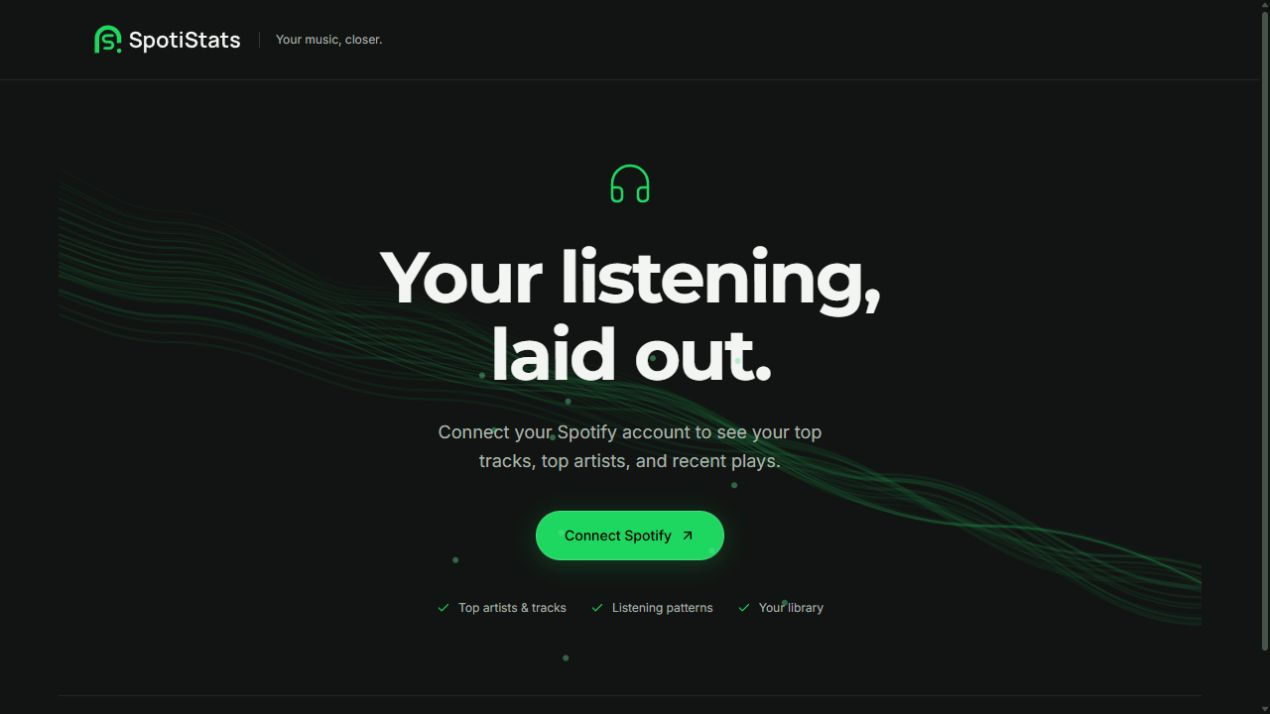
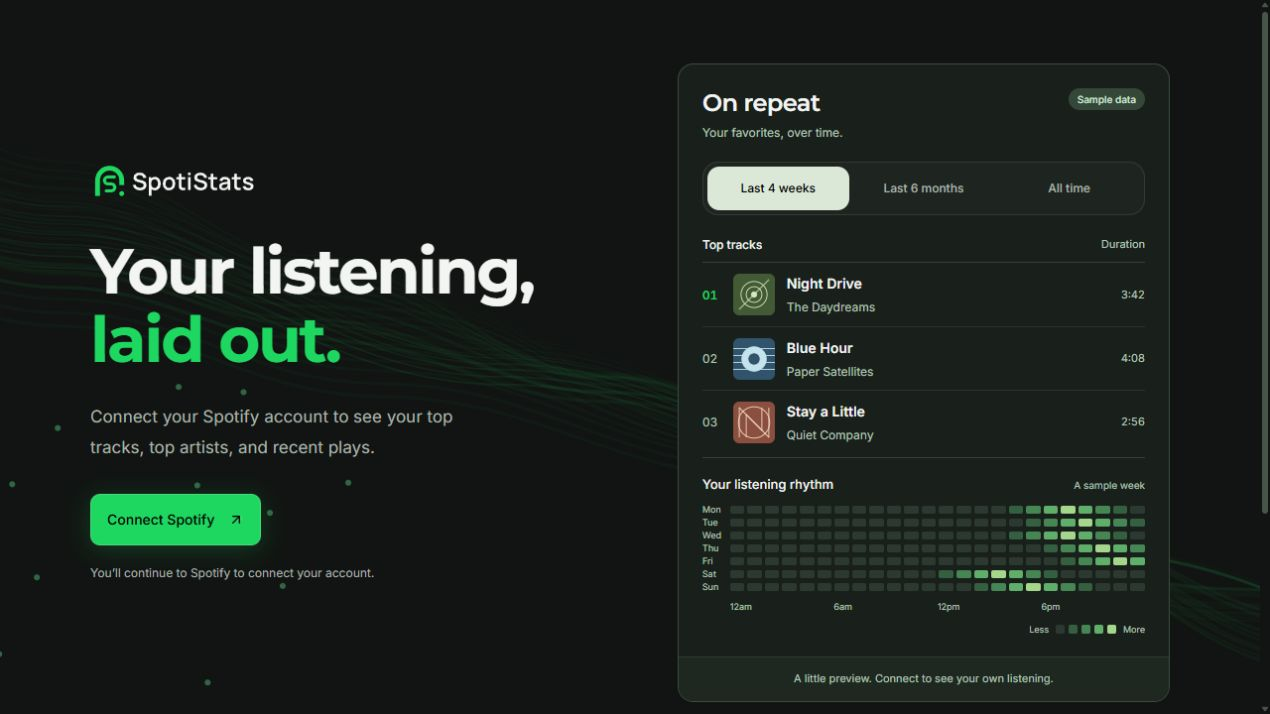
Refresh README for live SpotiStats deployment

diff --git a/README.md b/README.md
@@ -8,27 +8,32 @@
 </p>
 
 <p align="center">
+  <a href="https://spoti-neon.vercel.app/"><strong>Open SpotiStats ↗</strong></a> ·
   <a href="#features">Features</a> ·
   <a href="#getting-started">Getting started</a> ·
   <a href="#configuration">Configuration</a> ·
   <a href="#deployment">Deployment</a>
 </p>
 
-SpotiStats brings your listening data into a responsive interface built with React, TypeScript, and Kokonut UI. Explore your favorites over time, discover patterns in recent plays, and optionally use AI to reflect on your music taste.
+SpotiStats turns your Spotify listening data into a personal dashboard. Explore your favorite artists and tracks, see when you listen, and discover the release decades behind your current rotation. Built with React, TypeScript, and Kokonut UI, with Spotify authentication handled by Express.
+
+**Live site:** [spoti-neon.vercel.app](https://spoti-neon.vercel.app/). Spotify data access follows the app's Development Mode restrictions; a public website does not make Spotify API access available to every visitor. See [Spotify access](#spotify-access).
 
 ## Preview
 
-![SpotiStats sign-in screen with Tasteprint S branding and animated Kokonut UI background](docs/assets/sign-in.png)
+![SpotiStats landing page with Tasteprint S branding, Connect Spotify button, sample top tracks, and a listening heatmap](docs/assets/sign-in.png)
 
-*The sign-in screen. Dashboard content is loaded from your connected Spotify account.*
+*The production sign-in page. Its preview uses labeled sample data; your dashboard loads data from your connected Spotify account.*
 
 ## Features
 
 | Area | What you can explore |
 | --- | --- |
 | **Favorites** | Top artists and tracks across Spotify's short-term, medium-term, and long-term ranges. |
-| **Listening patterns** | A weekly heatmap, daily favorites, and playlist activity based on your latest 50 plays. |
-| **Your sound** | Bubbles for genre counts (or artist mix when tags are unavailable), plus a donut chart of your top tracks’ album release decades. |
+| **Listening patterns** | A day-and-hour heatmap and playlist activity based on your latest 50 plays. |
+| **Daily Top** | A line chart showing daily play counts for each day's leading artist and track, with details on hover or selection. |
+| **Your Sound** | Interactive bubbles showing genre counts, with an artist-mix fallback when Spotify omits genre tags. |
+| **Your Music Eras** | A donut chart grouping top tracks by album release decade, with leading decades and oldest/newest release years. |
 | **Current playback** | Album artwork, track details, playback progress, and device name, refreshed every 15 seconds. |
 | **Library** | Counts of followed artists, liked songs, saved albums, and playlists, plus a playlist carousel. |
 | **Optional AI insights** | A taste profile, recent-listening recap, and chat about your stats, powered by Groq. |
@@ -41,7 +46,17 @@ SpotiStats brings your listening data into a responsive interface built with Rea
 | Frontend | React, TypeScript, Vite, Tailwind CSS, Kokonut UI, Motion, Recharts |
 | Backend | Node.js, Express, Axios |
 | Integrations | Spotify Web API; optional Groq API |
-| Sessions | In-memory storage locally; optional PostgreSQL persistence |
+| Hosting | Vercel static frontend and Express serverless function |
+| Sessions | Encrypted cookies on Vercel; in-memory storage locally; optional PostgreSQL |
+
+## Spotify access
+
+The hosted app uses Spotify's Development Mode. Access to personal stats depends on the Spotify app's allowlist and API availability.
+
+> [!IMPORTANT]
+> Spotify requires the **owner of a Development Mode app to have an active Premium subscription**. Additional users must be added to the app's allowlist. A user may be able to sign in while API requests still return `403`. See [Spotify's quota modes](https://developer.spotify.com/documentation/web-api/concepts/quota-modes) for current requirements.
+
+To run your own instance, create a Spotify developer app and use your own credentials as described below.
 
 ## Getting started
 
@@ -50,9 +65,6 @@ SpotiStats brings your listening data into a responsive interface built with Rea
 - [Node.js](https://nodejs.org/) **22.12 or newer** and npm.
 - A Spotify developer app with its Client ID and Client Secret.
 - Optional: a Groq API key for AI features and PostgreSQL for persistent sessions.
-
-> [!IMPORTANT]
-> Spotify requires the **owner of a Development Mode app to have an active Premium subscription**. Additional users must be added to the app's allowlist. Successful sign-in alone does not guarantee access to listening data. See [Spotify's quota modes](https://developer.spotify.com/documentation/web-api/concepts/quota-modes) for current requirements.
 
 ### 1. Clone and install
 
@@ -95,7 +107,7 @@ PORT=8888
 ### 4. Build and run
 
 ```bash
-npm run build --prefix client
+npm run build
 npm start --prefix server
 ```
 
@@ -123,7 +135,13 @@ npm run build --prefix client
 
 # Lint the frontend
 npm run lint --prefix client
+
+# Run frontend data tests and backend authentication tests
+npm test --prefix client
+npm test --prefix server
 ```
+
+The tests cover genre-to-artist fallback, release-decade calculations, encrypted-cookie validation, and login/session refresh across simulated serverless cold starts. Backend tests use mocked Spotify responses.
 
 ## Configuration
 
@@ -134,6 +152,7 @@ The server loads `server/.env` when started with the commands above.
 | `SPOTIFY_CLIENT_ID` | Yes | Client ID from your Spotify developer app. |
 | `SPOTIFY_CLIENT_SECRET` | Yes | Client Secret used by the server to exchange and refresh tokens. |
 | `SPOTIFY_REDIRECT_URI` | Yes | Callback URL; must exactly match a registered redirect URI. |
+| `STATE_SECRET` | On Vercel | Long random secret used to encrypt OAuth state and cookie-based sessions. Keep it stable between deployments. |
 | `PORT` | No | Backend port. Defaults to `8888`. |
 | `GROQ_API_KEY` | No | Enables the AI profile, recap, and chat. Leave blank to keep them hidden. |
 | `GROQ_MODEL` | No | Overrides the model used for Groq chat completions. |
@@ -144,15 +163,30 @@ The server loads `server/.env` when started with the commands above.
 
 Each visitor receives a separate session cookie. With PostgreSQL configured, Spotify access and refresh tokens are stored on the backend and the server creates its sessions table during startup. Local development without a database uses in-memory sessions, which are cleared on restart. On Vercel without PostgreSQL, tokens are stored in an encrypted, authenticated, Secure, HttpOnly cookie using `STATE_SECRET`, so independent function instances can read the session. Logging out clears that browser’s cookies; use PostgreSQL when server-side session revocation is required.
 
-AI features are optional. When enabled, listening summaries and chat messages are sent to Groq to generate responses. Profiles and recaps are cached in process memory for up to 24 hours; chat context is cached for up to one hour.
+The application requests read scopes for listening data and your library. It does not request Spotify permissions to change playlists or control playback. Spotify credentials belong in server environment variables, never in frontend code or committed files.
+
+AI features are optional. When enabled, listening summaries and chat messages are sent to Groq to generate responses. Profiles and recaps are cached in process memory for up to 24 hours; chat context is cached for up to one hour. These caches are temporary and are not shared across Vercel function instances.
 
 ## Deployment
 
 ### Vercel
 
-The production project uses the repository root. `vercel.json` builds `client/dist` and routes `/api/*`, `/login`, `/callback`, and `/logout` to `api/index.js`, which runs Express without opening a port.
+The live deployment is [spoti-neon.vercel.app](https://spoti-neon.vercel.app/). The Vercel project uses the repository root and Node.js 22.x. [`vercel.json`](vercel.json) installs both packages, builds `client/dist`, and routes `/api/*`, `/login`, `/callback`, and `/logout` to [`api/index.js`](api/index.js).
 
-Set `SPOTIFY_CLIENT_ID`, `SPOTIFY_CLIENT_SECRET`, and `SPOTIFY_REDIRECT_URI` in Vercel’s production environment. Register the production `/callback` URL in Spotify’s dashboard. Set a long random `STATE_SECRET` for encrypted OAuth state and, when no database is configured, encrypted session cookies. Existing `DATABASE_URL` storage is supported. Optional AI variables work as described above.
+To deploy your own instance:
+
+1. Import your repository into Vercel with the repository root as the project directory. The committed configuration supplies the build and routing settings.
+2. Set `SPOTIFY_CLIENT_ID`, `SPOTIFY_CLIENT_SECRET`, `SPOTIFY_REDIRECT_URI`, and `STATE_SECRET` in the production environment. Add `DATABASE_URL` or Groq variables only when needed.
+3. Register your exact HTTPS callback in the Spotify Developer Dashboard and use the same value for `SPOTIFY_REDIRECT_URI`.
+4. Deploy, then verify that `/api/status` returns JSON and **Connect Spotify** returns to your deployed dashboard.
+
+This project's production callback is:
+
+```text
+https://spoti-neon.vercel.app/callback
+```
+
+Use your own domain when deploying a fork. Keep the local loopback callback registered for local development. Environment-variable changes require a new deployment; changing `STATE_SECRET` invalidates existing encrypted sessions.
 
 ### Node.js service
 
@@ -180,24 +214,38 @@ Certificate files are excluded from Git. The Vite proxy currently targets HTTP; 
 ## Data boundaries
 
 - Recent-play charts describe the **latest 50 plays**, rather than a complete listening history.
+- Daily Top compares each day's most-played artist and track; the leading names may change from day to day. Its lines do not track one fixed artist or song across the whole period.
 - Top-item rankings use Spotify's time ranges rather than exact custom date intervals.
 - Your Sound uses artist genre tags when Spotify provides them. If those tags are missing, it shows artist appearances across your top tracks, with each collaboration counted once per credited artist. This is an artist mix, not a play-count or inferred-genre chart.
 - Your Music Eras groups top tracks by the album release year supplied by Spotify. Reissues may use a newer album edition’s date rather than the original song’s year. Missing or invalid dates are excluded and coverage is shown; decade counts describe top tracks, not play counts.
 - Continuous history tracking, lifetime listening minutes, and Extended Streaming History import are not currently implemented.
 - API availability and permissions depend on Spotify's platform rules. Access restrictions and expired sessions are surfaced in the dashboard.
 
+## Troubleshooting
+
+| Symptom | Check |
+| --- | --- |
+| Spotify reports a redirect mismatch | Match `SPOTIFY_REDIRECT_URI` to an entry in the Spotify dashboard exactly, including protocol, domain, port, and path. Use the production callback on Vercel and the loopback callback locally. |
+| Sign-in works but stats are unavailable | Check the app owner's Premium status, the user's allowlist access, and Spotify API errors. |
+| The deployed page stays on the loading screen | Check `/api/status`. It should return JSON such as `{"logged_in":false}` for a signed-out visitor. Deploy from the repository root so API routing and the React build are included. |
+| Genres are missing | Your Sound automatically shows an artist mix when top tracks are available. Spotify metadata coverage varies. |
+| AI panels are hidden | Set `GROQ_API_KEY` on the backend to enable them, then restart or redeploy. |
+
 ## Project structure
 
 ```text
 spoti/
+├── api/index.js            Vercel entry point for Express
 ├── client/                 React frontend and Vite configuration
 │   ├── src/components/     Dashboard, charts, and Kokonut UI components
 │   ├── src/lib/            Typed API helpers and shared data state
 │   └── public/brand/       Approved Tasteprint S logo assets
 ├── server/                 Express, Spotify OAuth, sessions, and Groq endpoints
+│   └── tests/              Cookie and serverless authentication tests
 ├── public/                 Original frontend; fallback when client/dist is absent
 ├── design/logo-concepts/   Logo source artwork, iterations, and review notes
-└── docs/assets/            README visuals
+├── docs/assets/            README visuals
+└── vercel.json             Production build and API routing
 ```
 
 ## Credits
